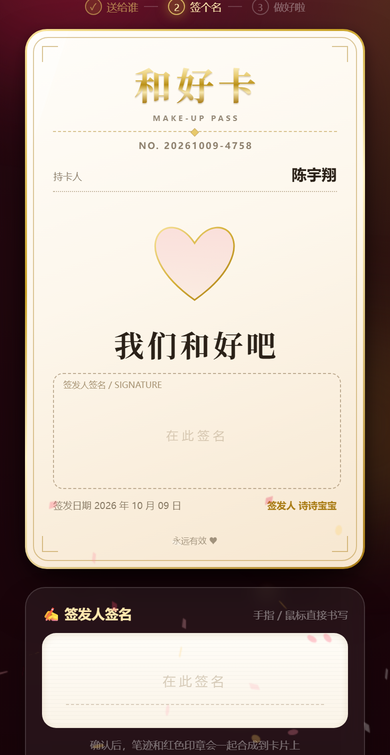
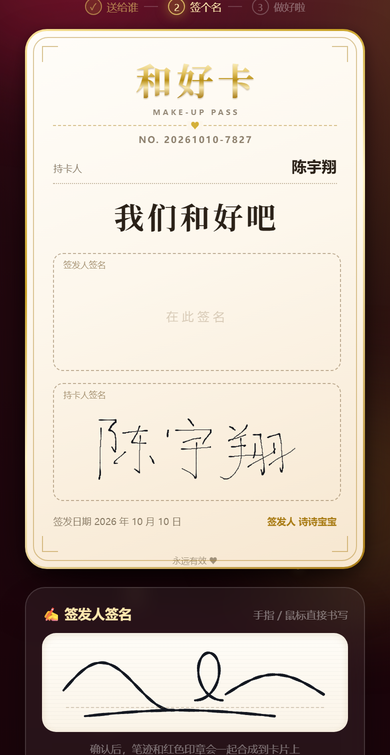
feat: 印入陈宇翔的真实签名，卡片双签名完成；修复签名工具下载失效的 bug

diff --git a/public/sign.html b/public/sign.html
@@ -68,6 +68,11 @@
       .done { display: none; margin-top: 16px; padding: 13px 16px; border-radius: 14px; font-size: 13px; line-height: 1.6;
               color: #b8f5cd; border: 1px solid rgba(52,211,153,.45); background: rgba(16,185,129,.18); text-align: center; }
       .done.show { display: block; }
+      .preview { display: none; margin-top: 16px; padding: 14px; border-radius: 16px;
+                 border: 1px solid rgba(255,255,255,.16); background: #fffdf8; text-align: center; }
+      .preview.show { display: block; }
+      .preview-tip { margin: 0 0 10px; font-size: 12px; color: #6a5946; }
+      .preview img { display: block; width: 100%; max-height: 190px; object-fit: contain; }
     </style>
   </head>
   <body>
@@ -86,7 +91,12 @@
         <button class="btn-main" id="save" disabled>保存签名图片</button>
       </div>
 
-      <div class="done" id="done">✅ 已保存 <b id="fname">holder-sign.png</b>。<br />把这个文件放到项目的 <b>public</b> 文件夹里就能用了。</div>
+      <div class="done" id="done">✅ 已开始下载 <b id="fname">holder-sign.png</b>。<br />如果没看到下载，长按（手机）或右键（电脑）下面这张图保存也可以。</div>
+
+      <div class="preview" id="preview-wrap">
+        <p class="preview-tip">⬇ 长按这张图保存（手机）／右键另存为（电脑）</p>
+        <img id="preview" alt="你的签名" />
+      </div>
 
       <div class="tips">
         <h2>怎么用</h2>
@@ -264,11 +274,9 @@
           minY = Math.max(0, minY - padY); maxY = Math.min(1, maxY + padY)
 
           var scale = 3
-          var outW = Math.round((maxX - minX) * cssW * scale)
-          var outH = Math.round((maxY - minY) * cssH * scale)
           var off = document.createElement('canvas')
-          off.width = Math.max(outW, 1)
-          off.height = Math.max(outH, 1)
+          off.width = Math.max(Math.round((maxX - minX) * cssW * scale), 1)
+          off.height = Math.max(Math.round((maxY - minY) * cssH * scale), 1)
           var g = off.getContext('2d')
           g.scale(scale, scale)
           g.translate(-minX * cssW, -minY * cssH)
@@ -276,20 +284,35 @@
           g.lineJoin = 'round'
           for (var k = 0; k < strokes.length; k++) paintStroke(g, strokes[k], cssW, cssH)
 
-          var a = document.createElement('a')
-          a.download = 'holder-sign.png'
-          document.body.appendChild(a)
-          // 用 blob URL 下载：直接双击打开本文件（file://）时也能正常保存
-          off.toBlob(function (blob) {
-            if (!blob) return
-            var url = URL.createObjectURL(blob)
-            a.href = url
-            a.click()
-            setTimeout(function () { URL.revokeObjectURL(url) }, 4000)
-          }, 'image/png')
-          document.body.removeChild(a)
+          // 兜底展示：万一自动下载被浏览器拦住，长按/右键这张图也能存
+          var dataUrl = off.toDataURL('image/png')
+          document.getElementById('preview').src = dataUrl
+          document.getElementById('preview-wrap').classList.add('show')
           fname.textContent = 'holder-sign.png'
           done.classList.add('show')
+
+          // 自动下载：<a> 必须留在 DOM 里，点击之后再移除（之前就是这里写错了）
+          function triggerDownload(href) {
+            var a = document.createElement('a')
+            a.download = 'holder-sign.png'
+            a.href = href
+            a.style.display = 'none'
+            document.body.appendChild(a)
+            a.click()
+            setTimeout(function () {
+              if (a.parentNode) a.parentNode.removeChild(a)
+              if (href.indexOf('blob:') === 0) URL.revokeObjectURL(href)
+            }, 4000)
+          }
+
+          if (off.toBlob) {
+            off.toBlob(function (blob) {
+              if (blob) triggerDownload(URL.createObjectURL(blob))
+              else triggerDownload(dataUrl)
+            }, 'image/png')
+          } else {
+            triggerDownload(dataUrl)
+          }
         })
 
         syncSize()

diff --git a/src/composables/useCardRenderer.ts b/src/composables/useCardRenderer.ts
@@ -6,6 +6,7 @@ import {
   CARD_TITLE,
   CARD_W,
   HOLDER_NAME,
+  HOLDER_SIGN_SCALE,
   ISSUER_NAME,
   LAYOUT,
   PALETTE
@@ -255,9 +256,9 @@ function drawMessage(ctx: CanvasRenderingContext2D) {
   ctx.restore()
 }
 
-/** 等比缩放到目标框内并居中 */
-function fitInside(iw: number, ih: number, box: Box) {
-  const scale = Math.min(box.w / iw, box.h / ih)
+/** 等比缩放到目标框内并居中；factor 用于再乘一个缩小系数 */
+function fitInside(iw: number, ih: number, box: Box, factor = 1) {
+  const scale = Math.min(box.w / iw, box.h / ih) * factor
   const w = iw * scale
   const h = ih * scale
   return { x: box.x + (box.w - w) / 2, y: box.y + (box.h - h) / 2, w, h }
@@ -297,7 +298,7 @@ function drawSigBox(
     ctx.save()
     ctx.globalCompositeOperation = 'multiply'
     ctx.globalAlpha = 0.94
-    const r = fitInside(image.naturalWidth, image.naturalHeight, inkArea)
+    const r = fitInside(image.naturalWidth, image.naturalHeight, inkArea, HOLDER_SIGN_SCALE)
     ctx.drawImage(image, r.x, r.y, r.w, r.h)
     ctx.restore()
   }

diff --git a/src/components/MakeUpCard.vue b/src/components/MakeUpCard.vue
@@ -5,6 +5,7 @@ import {
   CARD_SUBTITLE,
   CARD_TITLE,
   HOLDER_NAME,
+  HOLDER_SIGN_SCALE,
   ISSUER_NAME,
   LAYOUT
 } from '../cardSpec'
@@ -91,6 +92,7 @@ const sigHolderStyle = {
             class="mk-sig-img"
             :src="holderSignatureUrl"
             alt=""
+            :style="{ transform: `scale(${HOLDER_SIGN_SCALE})` }"
             @error="showHolderSign = false"
           />
         </div>
@@ -293,6 +295,8 @@ const sigHolderStyle = {
   height: calc(100% - 30px);
   object-fit: contain;
   object-position: center;
+  /* multiply 让预印签名和导出的合成图效果一致 */
+  mix-blend-mode: multiply;
   pointer-events: none;
   user-select: none;
   -webkit-user-drag: none;

diff --git a/src/cardSpec.ts b/src/cardSpec.ts
@@ -99,6 +99,9 @@ export const INK_RATIO = LAYOUT.inkIssuer.w / LAYOUT.inkIssuer.h
 /** 预先印在卡片上的持卡人签名文件（放在 public/ 目录） */
 export const HOLDER_SIGNATURE_FILE = 'holder-sign.png'
 
+/** 预印签名的缩放比例：避免顶到边框，也和她现场手写的笔迹更协调 */
+export const HOLDER_SIGN_SCALE = 0.82
+
 const pad2 = (n: number) => String(n).padStart(2, '0')
 
 /** 生成卡片编号，例如 20260214-0731 */
